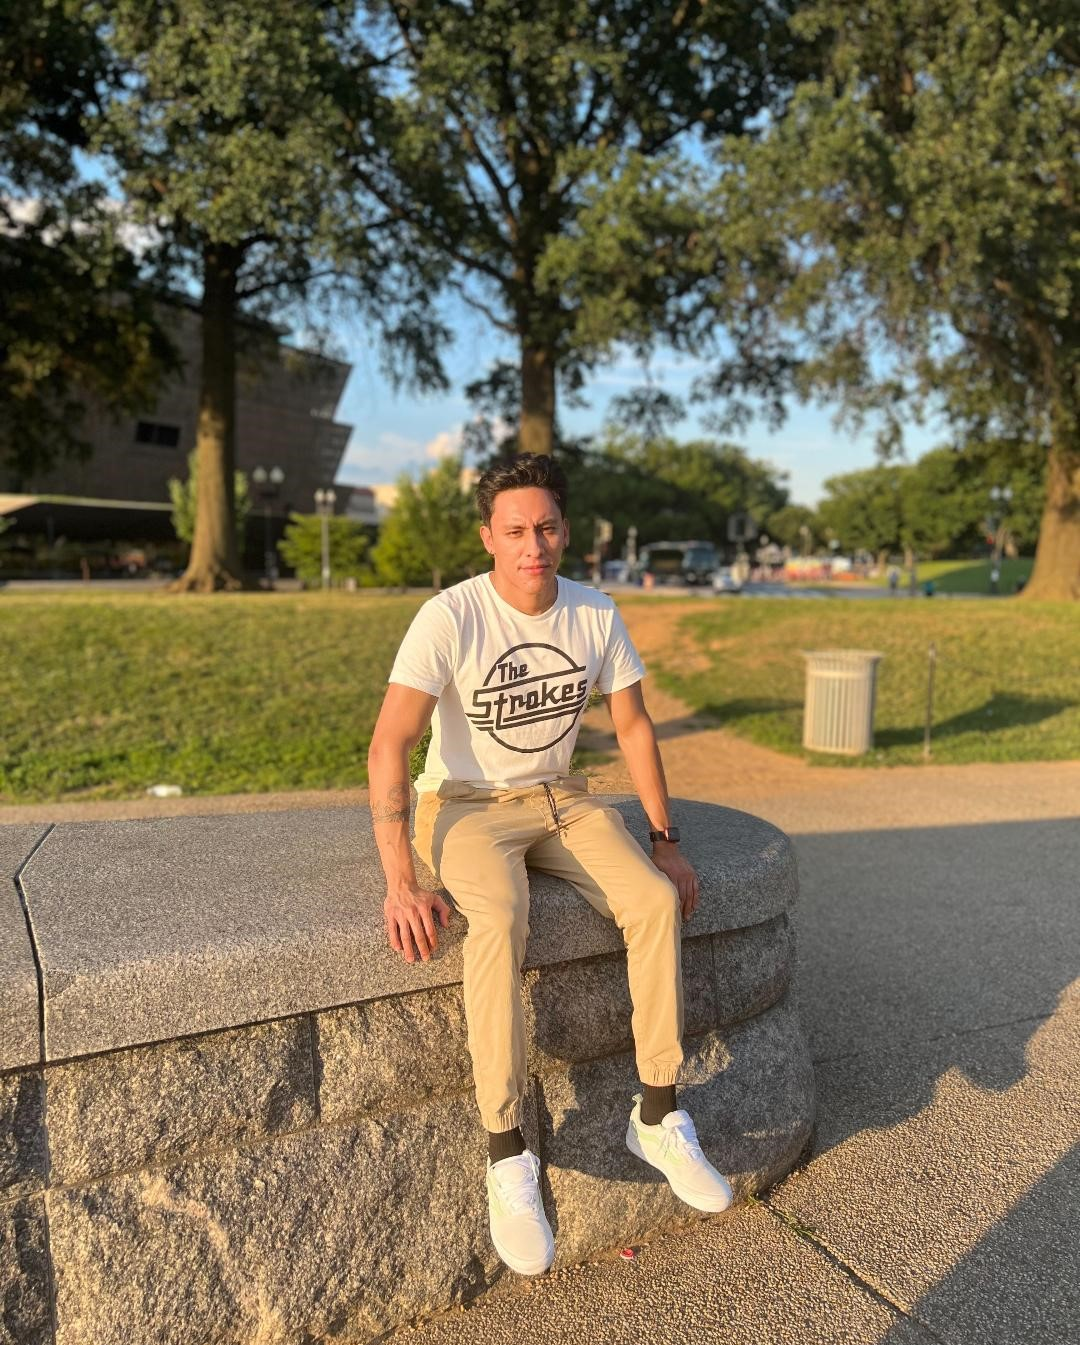
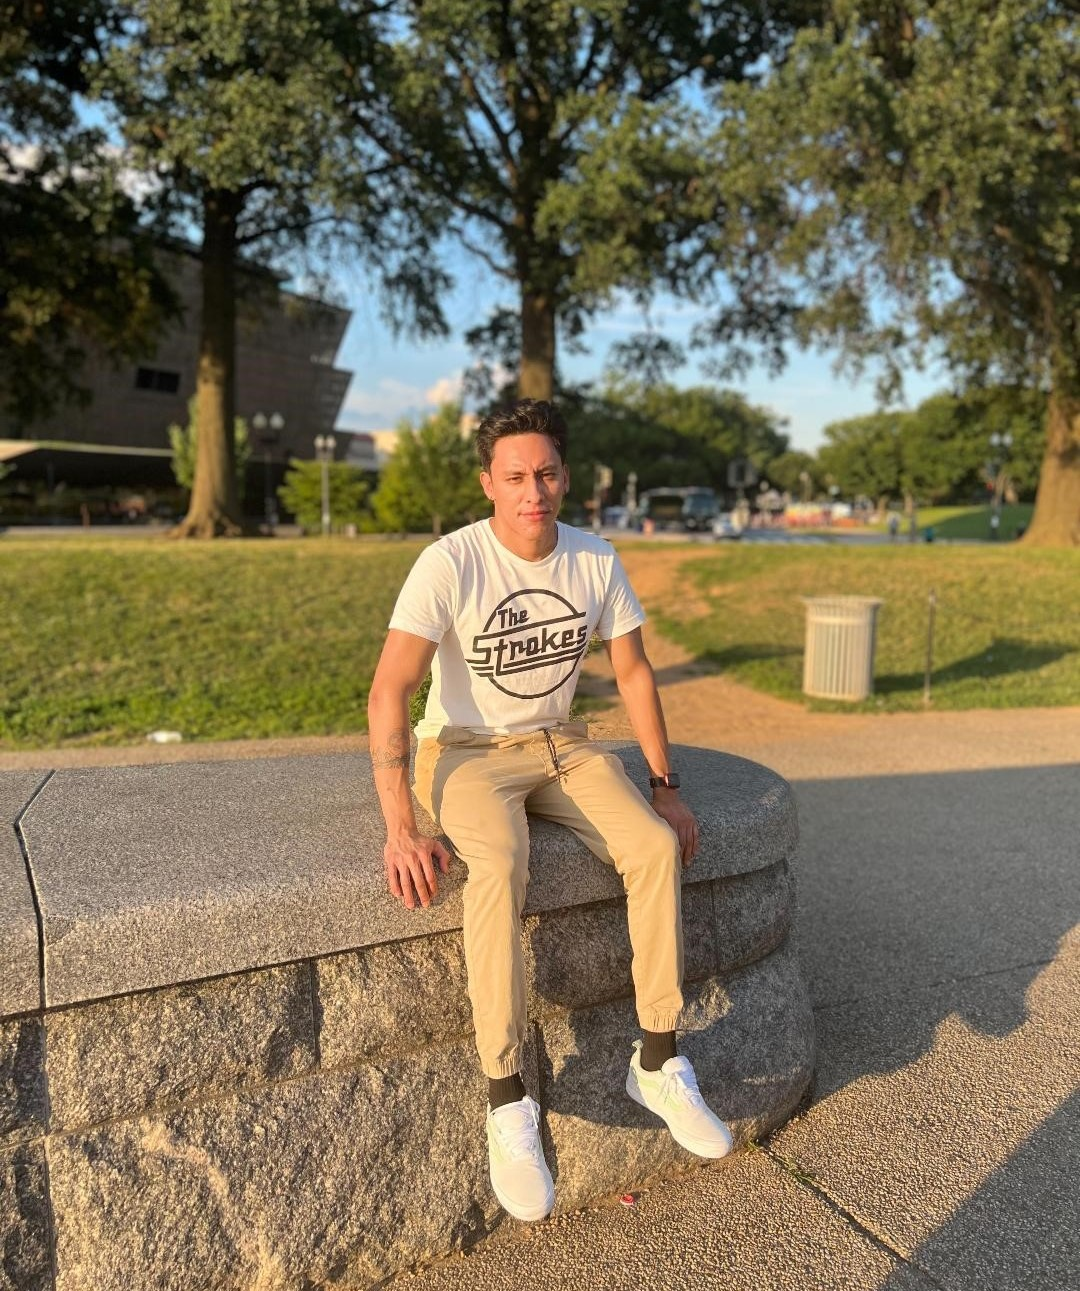
image fix

diff --git a/src/components/projects/Projects.jsx b/src/components/projects/Projects.jsx
@@ -5,7 +5,7 @@ import rank_store_image from '../../assets/rank_my_store.png'
 import question_mark_image from '../../assets/question_mark.jpg'
 import mips_image from '../../assets/mips.jpg'
 import react_image from '../../assets/react.png'
-import starry_night from '../../assets/starry_night.jpeg'
+import starry_night from '../../assets/starry_night.jpg'
 
 const data = [
   {

diff --git a/src/components/header/header.css b/src/components/header/header.css
@@ -42,7 +42,7 @@ header {
 /* ----------------------- ME (image) ----------------------- */
 .me {
     width: 34rem;
-    height: 43rem;
+    height: 40rem;
     border-radius: 2rem;
     position: absolute;
     left: calc(50% - 17rem);
